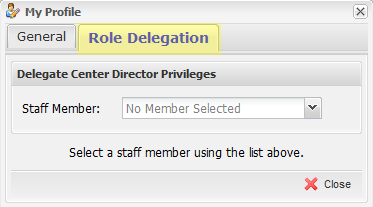
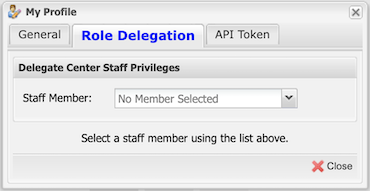
Add missing user manual updates.

diff --git a/user_manual_builder/Metric_Explorer.rst b/user_manual_builder/Metric_Explorer.rst
@@ -288,55 +288,36 @@ Managing Filters
 .. table::
    :widths: 75 25
 
-   +----------------------------------------------+-----------------------+
-   | .. figure:: media/image38.png                | As mentioned in the   |
-   |    :name: metric_explorer_filters            | previous section,     |
-   |                                              | filters allow you to  |
-   |    Filters section of Metric Explorer        | focus on a subset of  |
-   |                                              | the data. To apply    |
-   |                                              | filters to your data, |
-   |                                              | you can either        |
-   |                                              | consult the *Local    |
-   |                                              | Filters* section of   |
-   |                                              | the *Data Series      |
-   |                                              | Definition* dialog    |
-   |                                              | (see **Figure         |
-   |                                              | 8-10**), or make use  |
-   |                                              | of *Global Filters*   |
-   |                                              | (see **Figure         |
-   |                                              | 8-11**).              |
-   |                                              |                       |
-   |                                              | *Local* Filters are   |
-   |                                              | solely tailored to a  |
-   |                                              | single data series,   |
-   |                                              | whereas *Global*      |
-   |                                              | Filters are applied   |
-   |                                              | to all the data       |
-   |                                              | series you have       |
-   |                                              | introduced into the   |
-   |                                              | **Data** section of   |
-   |                                              | the Metric Explorer.  |
-   |                                              |                       |
-   |                                              | To create a filter,   |
-   |                                              | click on the *Add     |
-   |                                              | Filter* button (as    |
-   |                                              | highlighted in        |
-   |                                              | **Figure 8-11**).     |
-   |                                              | Doing so will provide |
-   |                                              | you with a list of    |
-   |                                              | dimensions (or        |
-   |                                              | parameters) you can   |
-   |                                              | filter with. Once you |
-   |                                              | have selected a       |
-   |                                              | dimension, you will   |
-   |                                              | be presented with a   |
-   |                                              | dialog allowing you   |
-   |                                              | to navigate, search,  |
-   |                                              | and select parameter  |
-   |                                              | values. Click on OK   |
-   |                                              | to apply any selected |
-   |                                              | filters.              |
-   +----------------------------------------------+-----------------------+
+   +----------------------------------------------+---------------------------------------+
+   | .. figure:: media/image38.png                | As mentioned in the previous section, |
+   |    :name: metric_explorer_filters            | filters allow you to focus on a       |
+   |                                              | subset of the data. To apply filters  |
+   |    Filters section of Metric Explorer        | to your data, you can either consult  |
+   |                                              | the *Local Filters* section of the    |
+   |                                              | *Data Series Definition* dialog (see  |
+   |                                              | :numref:`metric_explorer_filters`),   |
+   |                                              | or make use of *Global Filters* (see  |
+   |                                              | :numref:`metric_filter_logic`).       |
+   |                                              |                                       |
+   |                                              | *Local* Filters are solely tailored   |
+   |                                              | to a single data series, whereas      |
+   |                                              | *Global* Filters are applied to all   |
+   |                                              | the data series you have introduced   |
+   |                                              | into the **Data** section of the      |
+   |                                              | Metric Explorer.                      |
+   |                                              |                                       |
+   |                                              | To create a filter, click on the *Add |
+   |                                              | Filter* button (as highlighted in     |
+   |                                              | :numref:`metric_filter_logic`). Doing |
+   |                                              | so will provide you with a list of    |
+   |                                              | dimensions (or parameters) you can    |
+   |                                              | filter with. Once you have selected a |
+   |                                              | dimension, you will be presented with |
+   |                                              | a dialog allowing you to navigate,    |
+   |                                              | search, and select parameter values.  |
+   |                                              | Click on OK to apply any selected     |
+   |                                              | filters.                              |
+   +----------------------------------------------+---------------------------------------+
 
 .. table::
    :widths: 75 25

diff --git a/user_manual_builder/Efficiency.rst b/user_manual_builder/Efficiency.rst
@@ -33,36 +33,34 @@ usage and analytics associated with design. Usage analytics compare
 resources allocated for a job to measured usage for the job. Design
 analytics determine if jobs are using resources in an efficient manner
 consistent with their design. :numref:`efficiency_analytics_table` below lists the available
-analytics for the XDMoD 10.0 release and the associated description for
-that analytic.
+analytics and the associated description for each analytic.
 
 
 .. _efficiency_analytics_table:
 
-.. table:: Analytics available for display in the Efficiency Tab for XDMoD 10.0 Release.
+.. table:: Analytics available for display in the Efficiency Tab.
 
-   +------------+-------------------------------------------+------------+
-   | **         | **Description**                           | **         |
-   | Analytic** |                                           | Category** |
-   +============+===========================================+============+
-   | CPU Usage  | Measures the percentage of time that the  | Usage      |
-   |            | CPU cores were idle.                      |            |
-   +------------+-------------------------------------------+------------+
-   | GPU Usage  | Measures the percentage of time that the  | Usage      |
-   |            | GPUs were busy.                           |            |
-   +------------+-------------------------------------------+------------+
-   | Memory     | Measures the overall highest memory usage | Usage      |
-   | Usage      | for jobs.                                 |            |
-   +------------+-------------------------------------------+------------+
-   | H          | Measures how uniform the work rate of the | Usage      |
-   | omogeneity | job is.                                   |            |
-   +------------+-------------------------------------------+------------+
-   | Wall Time  | Measures how well used wall time matches  | Design     |
-   | Accuracy   | requested wall time.                      |            |
-   +------------+-------------------------------------------+------------+
-   | Short Jobs | Measures the number of jobs that ran for  | Design     |
-   |            | 30 seconds or less.                       |            |
-   +------------+-------------------------------------------+------------+
+   +--------------+-------------------------------------------+--------------+
+   | **Analytic** | **Description**                           | **Category** |
+   +==============+===========================================+==============+
+   | CPU Usage    | Measures the percentage of time that the  | Usage        |
+   |              | CPU cores were idle.                      |              |
+   +--------------+-------------------------------------------+--------------+
+   | GPU Usage    | Measures the percentage of time that the  | Usage        |
+   |              | GPUs were busy.                           |              |
+   +--------------+-------------------------------------------+--------------+
+   | Memory       | Measures the overall highest memory usage | Usage        |
+   | Usage        | for jobs.                                 |              |
+   +--------------+-------------------------------------------+--------------+
+   | Homogeneity  | Measures how uniform the work rate of the | Usage        |
+   |              | job is.                                   |              |
+   +--------------+-------------------------------------------+--------------+
+   | Wall Time    | Measures how well used wall time matches  | Design       |
+   | Accuracy     | requested wall time.                      |              |
+   +--------------+-------------------------------------------+--------------+
+   | Short Jobs   | Measures the number of jobs that ran for  | Design       |
+   |              | 30 seconds or less.                       |              |
+   +--------------+-------------------------------------------+--------------+
 
 .. _scatter_plot_view:
 

diff --git a/user_manual_builder/About.rst b/user_manual_builder/About.rst
@@ -2,7 +2,7 @@ My Profile, About, Roadmap, Contact and Help
 ===============================================
 
 On the upper right side of the XDMoD page, there are a series of five
-buttons that allow the user to set his profile, get more information
+buttons that allow you to set your profile, get more information
 about XDMoD, view the XDMoD Roadmap, contact the XDMoD developers and
 seek help.
 
@@ -19,10 +19,6 @@ My Profile Button
 My profile allows you to view and update general settings pertaining to
 your account. To access your profile, click on the **My Profile** button
 located in the upper right section of the portal.
-
-Your current role will be displayed in the title bar of the **My
-Profile** window. In the figure above, for example, it shows the user is
-a **Program Officer**.
 
 The first section in the **My Profile** window contains **User
 Information** such as: First Name, Last Name, and Email Address. All of
@@ -51,6 +47,16 @@ follow.
 
       Role Delegation Menu
 
+Also in the **My Profile** window is a tab that allows you to create an
+**API Token** to use with the
+`Data Analytics Framework <https://pypi.org/project/xdmod-data>`_
+(:numref:`api_token_menu`).
+
+.. figure:: media/image137.png
+   :name: api_token_menu
+
+   API Token Menu
+
 About Button
 -----------------
 
@@ -72,9 +78,9 @@ Contact Button
 
    Contact Us Button
 
-Selecting the contact button will bring up a window that allows the user
-to send a message to the XDMoD team. The user must fill in his name,
-email address and his message.
+Selecting the contact button will bring up a window that allows you
+to send a message to the XDMoD team. You must fill in your name,
+email address, and message.
 
 .. figure:: media/image79.png
    :name: my_profile_contact_window
@@ -114,7 +120,7 @@ simply want to view the Roadmap you can select the various Trello cards
 shown in :numref:`about_trello_roadmap` for further details about each roadmap task.
 You can also “vote” for a feature in the roadmap that you would
 particularly like to use. To do this Sign Up or Log In to Trello (upper
-right corner Figure 15-6). Then clicking on any roadmap feature such as
+right corner :numref:`about_trello_roadmap`). Then clicking on any roadmap feature such as
 X-Y plot capacity, will give you access to the Vote box, as shown in
 :numref:`about_roadmap_voting`.
 
@@ -126,9 +132,9 @@ X-Y plot capacity, will give you access to the Vote box, as shown in
 .. figure:: media/image119.png
    :name: about_trello_roadmap
 
-   XDMD Roadmap on Trello.com
+   XDMoD Roadmap on Trello.com
 
 .. figure:: media/image54.png
    :name: about_roadmap_voting
 
-   Voting for a feature in the XDMD Roadmap on Trello.com
+   Voting for a feature in the XDMoD Roadmap on Trello.com

diff --git a/user_manual_builder/Dashboard_Tab.rst b/user_manual_builder/Dashboard_Tab.rst
@@ -117,7 +117,7 @@ dragging the title bar of a component (:numref:`dashboard_rearrange_layout`). Th
 settings are saved automatically and persist between logins. The layout
 can be reset to default using the “Reset to default” button in the
 Settings tab of the “My Profile” dialog (:numref:`dashboard_reset_default`). The My Profile
-dialog is accessed via the “My Profile” button on the top left of the
+dialog is accessed via the “My Profile” button on the top right of the
 XDMoD portal. Full-width dashboard components cannot be moved.
 
 .. figure:: media/image80.png
@@ -132,7 +132,7 @@ XDMoD portal. Full-width dashboard components cannot be moved.
    :width: 66%
 
    The dashboard layout can be reset to the default value
-   using the button available in the Settings tab of the Profile dialog.
+   using the button available in the Settings tab of the My Profile dialog.
 
 Chart Component
 -------------------

diff --git a/user_manual_builder/Job_Viewer.rst b/user_manual_builder/Job_Viewer.rst
@@ -125,8 +125,9 @@ here are normalized with values near 1 (displayed in green) indicating a
 good value and values near 0 (displayed in red) indicating a poor value
 for the metric. We note that not all jobs should be expected to have
 good values for all metrics. The default metrics that are displayed are
-CPU User Balance, Homogeneity, Memory Headroom and CPU User (see Figure
-10-5). CPU User Balance indicates how well balanced the usage is between
+CPU User Balance, Homogeneity, Memory Headroom and CPU User (see
+:numref:`job_viewer_information`).
+CPU User Balance indicates how well balanced the usage is between
 the various cores in the job based on the fraction of time each core
 spends in CPU user mode. CPU User Balance is defined as
 
